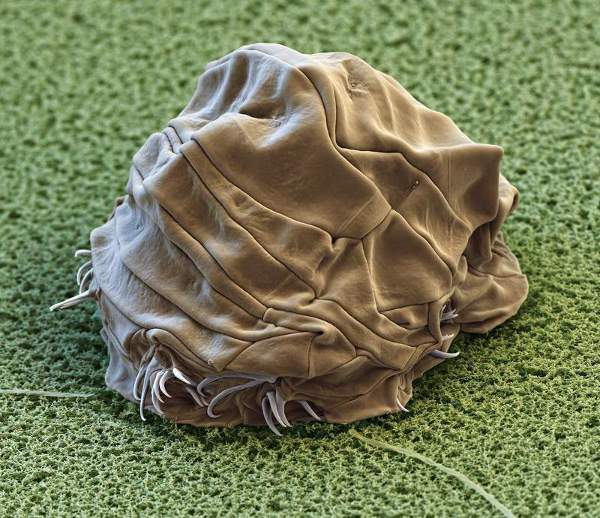
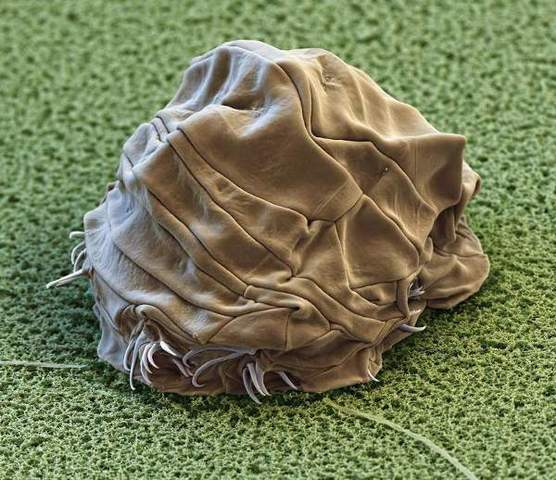
beta 0.5.4 including filter templte to getThumbnail create by ckeditor

diff --git a/centinela/templates/centinela/more_posts.html b/centinela/templates/centinela/more_posts.html
@@ -1,5 +1,6 @@
 {% load i18n %}
 {% load staticfiles %}
+{% load centinela_column %}
 {% if category == 'all' %}
 {% else %}
 <h3 class="text-warning">{{ category }}</h3>
@@ -13,7 +14,7 @@
         <div class="row">
             <div class="col-xs-3">
                 {% if post.image %}
-                <img src="{{ post.image }}" class="img-fit img img-responsive" itemprop="image"></img>
+                <img src="{{ post.image|getThumbnail }}" class="img-fit img img-responsive" itemprop="image"></img>
                 {% else %}
                         <img class="img img-responsive" src="{% static 'logo.png' %}" itemprop="image" />
                 {% endif %}
@@ -35,7 +36,7 @@
         <div class="row">
         <div class="col-xs-3">
             {% if post.image %}
-            <img src="{{ post.image }}" class="img-fit img img-reponsive " itemprop="image"></img>
+            <img src="{{ post.image|getThumbnail }}" class="img-fit img img-reponsive " itemprop="image"></img>
             {% else %}
                         <img class="img img-responsive" src="{% static 'logo.png' %}" itemprop="image" />
             {% endif %}

diff --git a/centinela/templates/centinela/news.html b/centinela/templates/centinela/news.html
@@ -51,7 +51,7 @@
             <div class="box10">
                 <div class="news_list_content">
                     {% if post.image %}
-                        <img class="img img-responsive" src="{{ post.image }}" itemprop="image"/>
+                        <img class="img img-responsive" src="{{ post.image|getThumbnail }}" itemprop="image"/>
                     {% else %}
                         <img class="img img-responsive" src="{% static 'logo.png' %}" itemprop="image" />
                     {% endif %}

diff --git a/centinela/templatetags/centinela_column.py b/centinela/templatetags/centinela_column.py
@@ -4,6 +4,7 @@ from django import template
 from django.conf import settings
 from django.utils import timezone
 import datetime
+import os
 
 register = template.Library()
 
@@ -34,3 +35,8 @@ def get_more_in_category(category):
     more_read = Post.objects.filter(created_date__gt=om, views_count__gt=0, category=category, status='publish').order_by('-views_count')[:settings.CENTINELA['MAX_MORE_IN_CATEGORY']]
     more_recent = Post.objects.filter(status='publish', type='post').order_by('-created_date')[:settings.CENTINELA['MAX_MORE_IN_CATEGORY']]
     return {'more_read': more_read,'more_recent': more_recent, 'category': category.name}
+
+@register.filter(name='getThumbnail')
+def get_thumbnail(value):
+    filename, file_extension = os.path.splitext(value)
+    return filename + '_thumb' + file_extension
